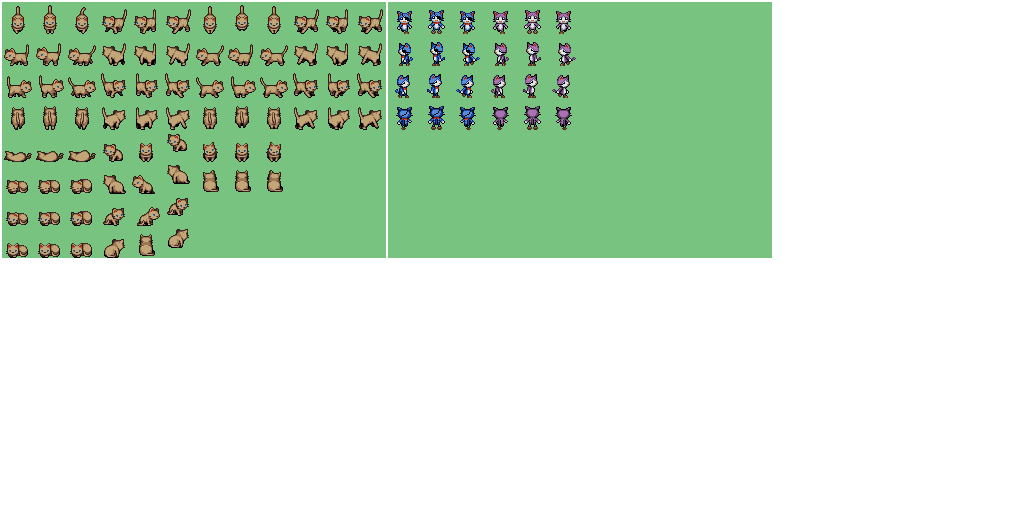
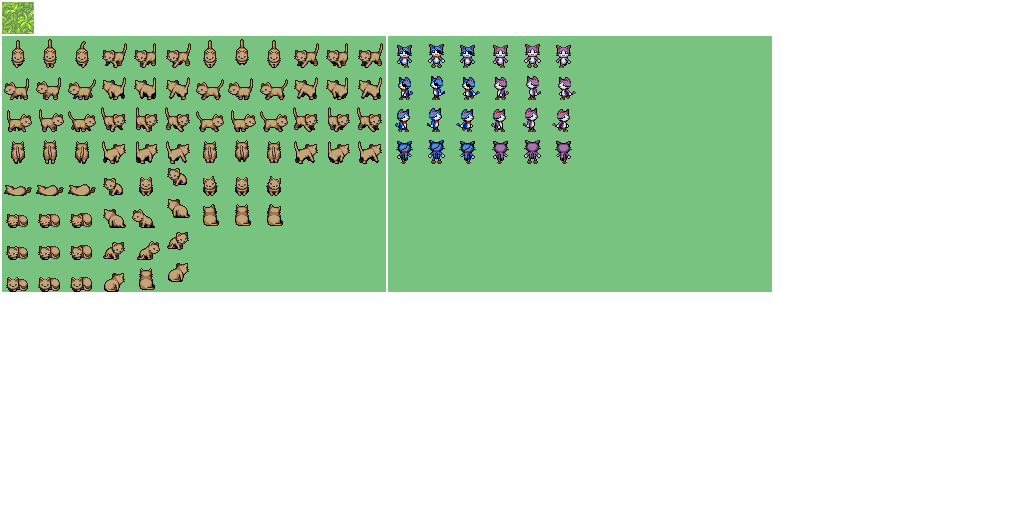
STEP 2 - refactor

Changed region(s): [[0.0, 0.0, 0.7812, 0.5938]]

diff --git a/src/BattlefieldStage.java b/src/BattlefieldStage.java
@@ -1,3 +1,4 @@
+import Background.Ground;
 import DB.MySettings;
 import Entities.Kitten;
 import Entities.WaypointListener;
@@ -10,7 +11,7 @@ import com.badlogic.gdx.physics.box2d.World;
 import com.badlogic.gdx.scenes.scene2d.Stage;
 import com.badlogic.gdx.utils.Array;
 
-public class Mundo extends Stage
+public class BattlefieldStage extends Stage
 {
     //Model
     private World world;
@@ -21,8 +22,9 @@ public class Mundo extends Stage
     private OrthographicCamera camera;
     private OrthographicCamera boxCamera;
     private Box2DDebugRenderer worldRenderer;
+    private Ground battlefield;
 
-    public Mundo()
+    public BattlefieldStage()
     {
         RayHandler.useDiffuseLight(true);
         this.world = new World(new Vector2(0, 0), false);
@@ -31,39 +33,41 @@ public class Mundo extends Stage
         this.boxCamera = new OrthographicCamera(Gdx.graphics.getWidth() * MySettings.PIXEL_METTERS, Gdx.graphics.getHeight() * MySettings.PIXEL_METTERS);
         this.worldRenderer = new Box2DDebugRenderer();
 
-        this.rayHandler.setAmbientLight(0.4f, 0.4f, 0.4f, 1.0f);
+        this.rayHandler.setAmbientLight(0.2f, 0.2f, 0.2f, 0.5f);
         this.getViewport().setCamera(camera);
 
-        Kitten kitten = new Kitten(this.world);
-        kitten.setModelPosition(0, 0);
+        Kitten kitten = new Kitten(this.world, this.rayHandler);
+        kitten.setModelPosition(50, 50);
         addKitten(kitten);
 
-
-        kitten = new Kitten(this.world);
-        kitten.setModelPosition(50, 0);
+        kitten = new Kitten(this.world, this.rayHandler);
+        kitten.setModelPosition(50, 450);
         addKitten(kitten);
 
-        kitten = new Kitten(this.world);
-        kitten.setModelPosition(100, 0);
+        kitten = new Kitten(this.world, this.rayHandler);
+        kitten.setModelPosition(50, 850);
         addKitten(kitten);
 
-        kitten = new Kitten(this.world);
-        kitten.setModelPosition(150, 0);
+        kitten = new Kitten(this.world, this.rayHandler);
+        kitten.setModelPosition(600, 450);
         addKitten(kitten);
 
-        kitten = new Kitten(this.world);
-        kitten.setModelPosition(200, 0);
+        kitten = new Kitten(this.world, this.rayHandler);
+        kitten.setModelPosition(1150, 50);
         addKitten(kitten);
 
-        kitten = new Kitten(this.world);
-        kitten.setModelPosition(250, 0);
+        kitten = new Kitten(this.world, this.rayHandler);
+        kitten.setModelPosition(1150, 450);
         addKitten(kitten);
 
-        kitten = new Kitten(this.world);
-        kitten.setModelPosition(300, 0);
+        kitten = new Kitten(this.world, this.rayHandler);
+        kitten.setModelPosition(1150, 850);
         addKitten(kitten);
+
+        battlefield = new Ground();
 
         world.setContactListener(new WaypointListener());
+
     }
 
     public World getWorld()
@@ -101,13 +105,18 @@ public class Mundo extends Stage
     {
        this.updateKittens();
 
-        camera.position.x = 0;
-        camera.position.y = 0;
+        camera.position.x = 600;
+        camera.position.y = 450;
         camera.update();
 
-        boxCamera.position.x = 0 * MySettings.PIXEL_METTERS;
-        boxCamera.position.y = 0 * MySettings.PIXEL_METTERS;
+        boxCamera.position.x = 600 * MySettings.PIXEL_METTERS;
+        boxCamera.position.y = 450 * MySettings.PIXEL_METTERS;
         boxCamera.update();
+
+
+        battlefield.setView(camera);
+
+        battlefield.render();
 
         super.draw();
 
@@ -119,10 +128,16 @@ public class Mundo extends Stage
         worldRenderer.render(world, boxCamera.combined);
     }
 
+    public RayHandler getRayHandler()
+    {
+        return this.rayHandler;
+    }
+
     @Override public void dispose()
     {
         rayHandler.dispose();
         world.dispose();
         worldRenderer.dispose();
+        battlefield.dispose();
     }
 }

diff --git a/src/Entities/Kitten.java b/src/Entities/Kitten.java
@@ -5,8 +5,12 @@ import DB.MySettings;
 import PhysicalObjects.DynamicObject;
 import PhysicalObjects.PhysicalObjectsFactory;
 import PhysicalObjects.StaticObject;
+import box2dLight.PointLight;
+import box2dLight.RayHandler;
+import com.badlogic.gdx.graphics.Color;
 import com.badlogic.gdx.graphics.g2d.Batch;
 import com.badlogic.gdx.graphics.g2d.TextureRegion;
+import com.badlogic.gdx.physics.box2d.Filter;
 import com.badlogic.gdx.physics.box2d.World;
 import com.badlogic.gdx.scenes.scene2d.Actor;
 
@@ -20,13 +24,18 @@ public class Kitten extends Actor implements ICollisionable
 
     //View
     private Nekomata nekomata;
+    private PointLight lights;
 
-    public Kitten(World world)
+    public Kitten(World world, RayHandler rayHandler)
     {
         dynamicBody = (DynamicObject)PhysicalObjectsFactory.newPhysicalObject.NEW_KINEMATIK_OBJECT.create(world, MySettings.KITTEN_HITBOX_WIDTH, MySettings.KITTEN_HITBOX_HEIGHT);
         dynamicBody.getBody().setUserData(this);
 
         wayPoint = (StaticObject)PhysicalObjectsFactory.newPhysicalObject.NEW_STATIC_OBJECT.create(world, 1, 1);
+        //wayPoint.getBody().getFixtureList().first().getFilterData().categoryBits = (short)0;
+        //wayPoint.getBody().getFixtureList().first().getFilterData().groupIndex =  (short)-1;
+        //wayPoint.getBody().getFixtureList().first().getFilterData().maskBits = (short)0;
+
         wayPoint.getBody().setUserData(this);
 
         TextureRegion texture = MySettings.ATLAS_DAO.getAtlasDAO().getTexture("gatito");
@@ -36,6 +45,12 @@ public class Kitten extends Actor implements ICollisionable
 
         this.setWidth(MySettings.KITTEN_HITBOX_WIDTH);
         this.setHeight(MySettings.KITTEN_HITBOX_HEIGHT);
+
+        this.lights = new PointLight(rayHandler, 300, new Color(0.7f,0.7f,0.7f, 0.5f), 400 * MySettings.PIXEL_METTERS, 0, 0);
+        //this.lights.setContactFilter((short)1, (short)0, (short)1);
+        this.lights.setSoft(true);
+        this.lights.attachToBody(dynamicBody.getBody(), 0, 0);
+        this.lights.setSoftnessLength(0.1f);
     }
 
 

diff --git a/src/GameScreen.java b/src/GameScreen.java
@@ -6,7 +6,7 @@ import com.badlogic.gdx.graphics.GL20;
 
 public class GameScreen implements Screen
 {
-    private Mundo mundo;
+    private BattlefieldStage battlefieldStage;
     private float timeStep = 0;
     private float alphaTimeStep;
 
@@ -15,11 +15,11 @@ public class GameScreen implements Screen
 
     public GameScreen()
     {
-        mundo = new Mundo();
+        battlefieldStage = new BattlefieldStage();
 
         //Set input sources for LibGdx.
         inputMultiplexer = new InputMultiplexer();
-        inputMultiplexer.addProcessor(mundo);
+        inputMultiplexer.addProcessor(battlefieldStage);
         Gdx.input.setInputProcessor(inputMultiplexer);
     }
 
@@ -38,7 +38,7 @@ public class GameScreen implements Screen
         while (timeStep >= MySettings.FIXED_TIMESTEP)
         {
             //Physics simulation
-            this.mundo.getWorld().step(MySettings.FIXED_TIMESTEP, 8, 6);
+            this.battlefieldStage.getWorld().step(MySettings.FIXED_TIMESTEP, 8, 6);
 
             timeStep -= MySettings.FIXED_TIMESTEP;
         }
@@ -46,13 +46,13 @@ public class GameScreen implements Screen
         alphaTimeStep = timeStep/MySettings.FIXED_TIMESTEP;
 
         //Render the last physics simulation.
-        mundo.act(delta);
-        mundo.draw();
+        battlefieldStage.act(delta);
+        battlefieldStage.draw();
     }
 
     @Override public void resize(int width, int height)
     {
-        this.mundo.resize(width, height);
+        this.battlefieldStage.resize(width, height);
     }
 
     @Override public void hide()
@@ -72,7 +72,7 @@ public class GameScreen implements Screen
 
     @Override public void dispose()
     {
-        this.mundo.dispose();
+        this.battlefieldStage.dispose();
         MySettings.ATLAS_DAO.getAtlasDAO().dispose();
     }
 }

diff --git a/src/Background/Ground.java b/src/Background/Ground.java
@@ -1,0 +1,60 @@
+package Background;
+
+import DB.MySettings;
+import com.badlogic.gdx.graphics.OrthographicCamera;
+import com.badlogic.gdx.graphics.g2d.TextureRegion;
+import com.badlogic.gdx.maps.tiled.TiledMap;
+import com.badlogic.gdx.maps.tiled.TiledMapTileLayer;
+import com.badlogic.gdx.maps.tiled.TiledMapTileLayer.Cell;
+import com.badlogic.gdx.maps.tiled.renderers.OrthogonalTiledMapRenderer;
+import com.badlogic.gdx.maps.tiled.tiles.StaticTiledMapTile;
+
+public class Ground extends TiledMap
+{
+    private OrthogonalTiledMapRenderer mapRenderer;
+
+    public Ground()
+    {
+        this.mapRenderer = new OrthogonalTiledMapRenderer(this);
+        this.crearTiledMap();
+    }
+
+    private void crearTiledMap()
+    {
+        TextureRegion grassTexture = MySettings.ATLAS_DAO.getAtlasDAO().getTexture("Grass");
+        Cell cell;
+        StaticTiledMapTile tile;
+
+        TiledMapTileLayer suelo = new TiledMapTileLayer (200, 200, 32, 32);
+
+        for (int x = 0; x < 200; x++)
+        {
+            for (int y = 0; y < 200; y++)
+            {
+                tile = new StaticTiledMapTile(grassTexture);
+
+                cell = new Cell();
+                cell.setTile(tile);
+                suelo.setCell(x, y, cell);
+            }
+        }
+
+        getLayers().add(suelo);
+    }
+
+    public void setView (OrthographicCamera camera)
+    {
+        mapRenderer.setView(camera);
+    }
+
+    public void render()
+    {
+        mapRenderer.render();
+    }
+
+    public void dispose()
+    {
+        super.dispose();
+        mapRenderer.dispose();
+    }
+}

diff --git a/src/Entities/KittenDragListener.java b/src/Entities/KittenDragListener.java
@@ -33,7 +33,7 @@ public class KittenDragListener extends DragListener
         else
         {
             kitten.wayPoint.setPosition(clickPosition.x, clickPosition.y);
-            kitten.goToCoords(kitten.getWayPoint().getX(), kitten.getWayPoint().getY());
+            kitten.goToCoords(kitten.getWayPoint().getBottomLeftCornerX(), kitten.getWayPoint().getBottomLeftCornerY());
         }
     }
 }
